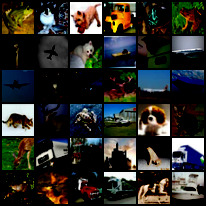
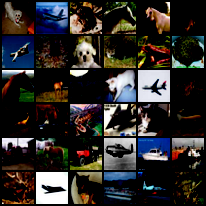
Trained

diff --git a/task2/task.py b/task2/task.py
@@ -4,7 +4,7 @@ from train import train_vit, get_dataloader
 
 if __name__ == "__main__":
 
-    batch_size = 16
+    batch_size = 64
     epochs = 20
     lr = 0.001
 
@@ -18,8 +18,8 @@ if __name__ == "__main__":
         "num_classes": 10
     }
     
-    sm_1_path = "sm_1.ckpt"
-    sm_2_path = "sm_2.ckpt"
+    sm_1_path = "models/sm_1.ckpt"
+    sm_2_path = "models/sm_2.ckpt"
 
     results_sm1_path = "results_sm_1.png"
     results_sm2_path = "results_sm_2.png"

diff --git a/task2/train.py b/task2/train.py
@@ -87,7 +87,7 @@ def train_vit(
         epochs: int = 2,
         lr: float = 0.001,
         sm: int = 1,
-        alpha: float = 0.2
+        alpha: float = 0.4
 ):
     device = torch.device("cuda") if torch.cuda.is_available() else torch.device("mps")
 
